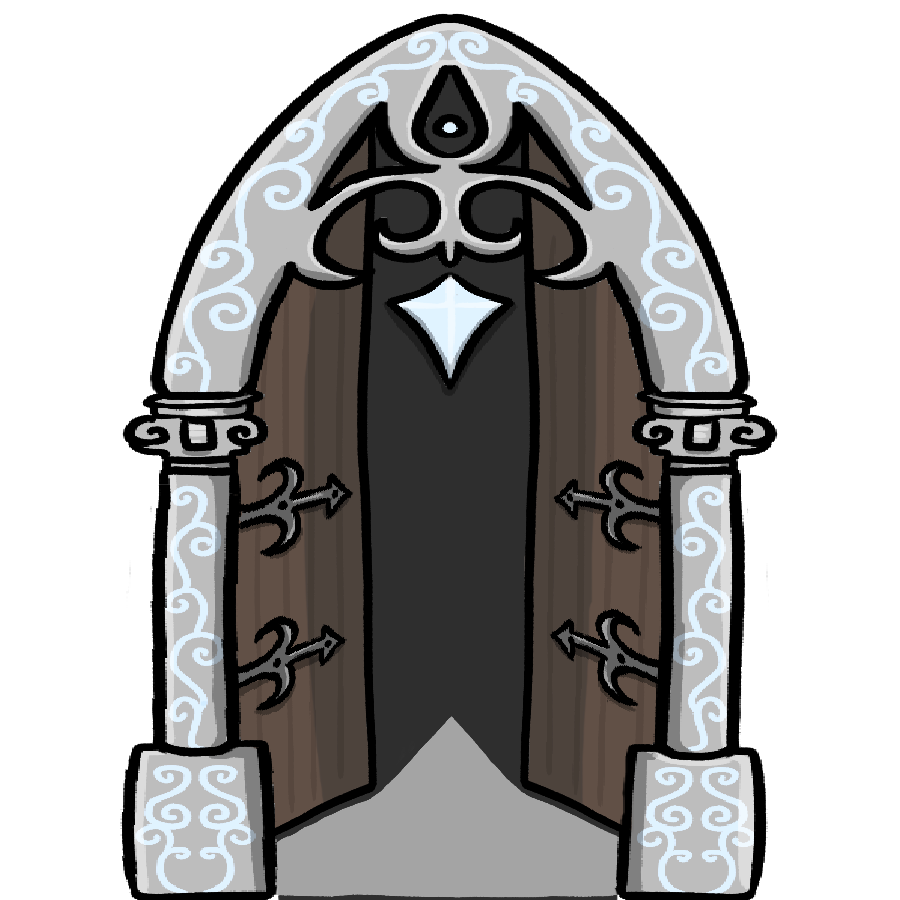
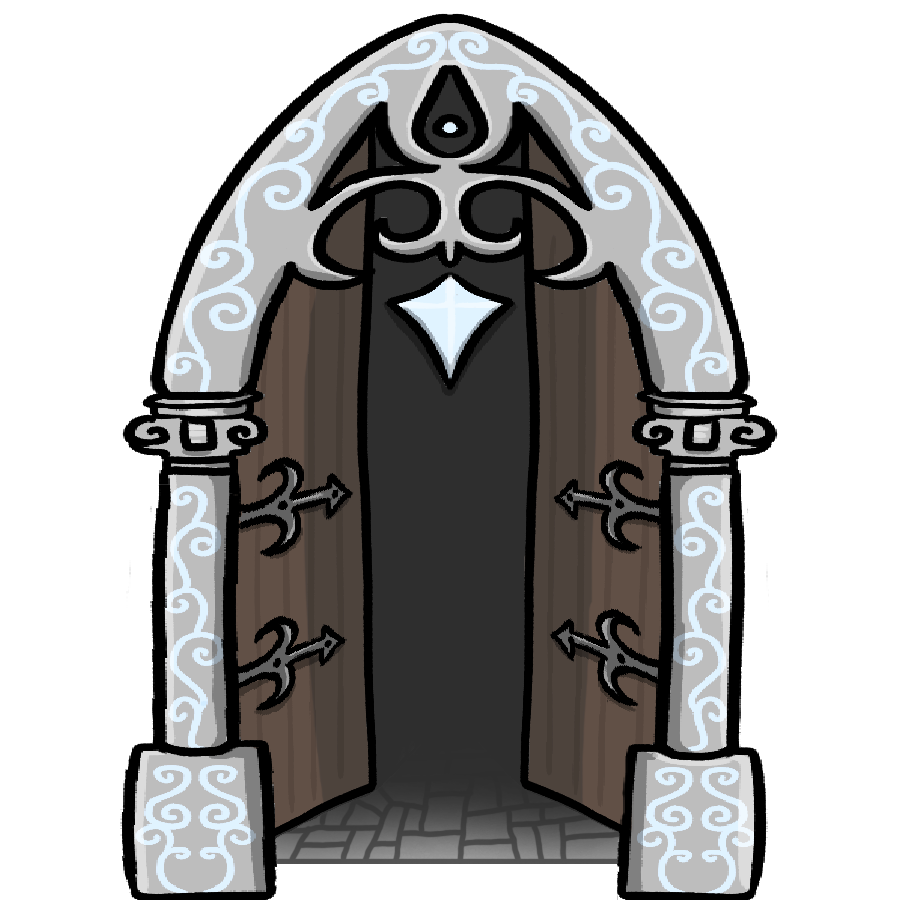
UI fixes

Changed region(s): [[0.28, 0.7778, 0.6844, 1.0]]

diff --git a/Physics/Physics/core/src/main/java/edu/cornell/cis3152/physics/LevelSelectScene.java b/Physics/Physics/core/src/main/java/edu/cornell/cis3152/physics/LevelSelectScene.java
@@ -28,6 +28,7 @@ public class LevelSelectScene implements Screen {
     private Stage stage;
     private Skin skin;
     private Texture bgTexture;
+    Texture selectBgTexture;
 
     private Array<DoorEntry> doorEntries;
 
@@ -48,6 +49,7 @@ public class LevelSelectScene implements Screen {
     private boolean doorDisplayDirty = true;
     private BitmapFont unicaFont;
     private Array<Label> doorLabels = new Array<>();
+    private Array<BackgroundTile> bgTiles = new Array<>();
     private ArrowEntry leftArrowEntry, rightArrowEntry;
     private SoundEngine soundEngine;
 
@@ -71,6 +73,19 @@ public class LevelSelectScene implements Screen {
         }
     }
 
+    private class BackgroundTile {
+        public Image image;
+        public float targetX;
+
+        public BackgroundTile(Image image) {
+            this.image = image;
+            this.targetX = image.getX();
+        }
+    }
+
+
+
+
     private class ArrowEntry extends Entry{
         public int direction;
         public ArrowEntry(Image arrow, TextureRegionDrawable defaultDrawable, TextureRegionDrawable hoverDrawable,int direction) {
@@ -85,10 +100,6 @@ public class LevelSelectScene implements Screen {
         this.soundEngine = soundEngine;
         stage = new Stage(new ScreenViewport());
         skin = new Skin();
-        bgTexture = new Texture(Gdx.files.internal("ui/plain_back.png"));
-        Image bgImage = new Image(bgTexture);
-        bgImage.setSize(Gdx.graphics.getWidth(), Gdx.graphics.getHeight());
-        stage.addActor(bgImage);
         createBasicUI();
     }
     private Texture loadDoorTexture(String statePrefix, boolean hover) {
@@ -97,12 +108,31 @@ public class LevelSelectScene implements Screen {
         return new Texture(Gdx.files.internal(path));
     }
 
+    private String toRoman(int number) {
+        String[] numerals = {
+            "M", "CM", "D", "CD", "C", "XC", "L", "XL", "X", "IX", "V", "IV", "I"
+        };
+        int[] values = {
+            1000, 900, 500, 400, 100, 90, 50, 40, 10, 9, 5, 4, 1
+        };
+
+        StringBuilder result = new StringBuilder();
+        for (int i = 0; i < values.length; i++) {
+            while (number >= values[i]) {
+                number -= values[i];
+                result.append(numerals[i]);
+            }
+        }
+        return result.toString();
+    }
+
+
     private void createBasicUI() {
         float screenWidth = Gdx.graphics.getWidth();
         float screenHeight = Gdx.graphics.getHeight();
-        doorWidth = screenWidth * 0.18f;
-        doorHeight = screenHeight * 0.35f;
-        spacing = screenWidth * 0.001f;
+        doorWidth = screenWidth * 0.18f *0.8f;
+        doorHeight = screenHeight * 0.35f * 0.8f;
+        spacing = screenWidth * 0.00005f;
 
         FreeTypeFontGenerator generator = new FreeTypeFontGenerator(Gdx.files.internal("ui/Unica_One/UnicaOne-Regular.ttf"));
         FreeTypeFontGenerator.FreeTypeFontParameter parameter = new FreeTypeFontGenerator.FreeTypeFontParameter();
@@ -111,6 +141,19 @@ public class LevelSelectScene implements Screen {
 
         unicaFont = generator.generateFont(parameter);
         generator.dispose();
+
+        Texture selectBgTexture = new Texture(Gdx.files.internal("ui/selectBackground.png"));
+
+        float tileWidth = screenWidth / 5f;
+
+        for (int i = 0; i < 5; i++) {
+            Image bgTileImage = new Image(selectBgTexture);
+            bgTileImage.setSize(tileWidth, screenHeight);  // Each tile now covers 1/5 of the width
+            bgTileImage.setPosition(i * tileWidth, 0);
+            stage.addActor(bgTileImage);
+            bgTiles.add(new BackgroundTile(bgTileImage));
+        }
+
 
 
         Texture chamberLabelTexture = new Texture(Gdx.files.internal("ui/chamber_sel.png"));
@@ -142,8 +185,8 @@ public class LevelSelectScene implements Screen {
             Texture baseTex, hoverTex;
 
 //            if ("true".equals(completed)) {
-                baseTex = loadDoorTexture("complete", false);
-                hoverTex = loadDoorTexture("complete", true);
+            baseTex = loadDoorTexture("complete", false);
+            hoverTex = loadDoorTexture("complete", true);
 //            } else if (!foundFirstIncomplete) {
 //                baseTex = loadDoorTexture("incomplete", false);
 //                hoverTex = loadDoorTexture("incomplete", true);
@@ -157,12 +200,12 @@ public class LevelSelectScene implements Screen {
             door.setSize(doorWidth, doorHeight);
 
             Label.LabelStyle labelStyle = new Label.LabelStyle(unicaFont, com.badlogic.gdx.graphics.Color.WHITE);
-            Label label = new Label(String.valueOf(levelNumber), labelStyle);
+            Label label = new Label(toRoman(levelNumber), labelStyle);
             label.setTouchable(Touchable.disabled);
             label.setFontScale(1.0f);
             label.setSize(doorWidth, doorHeight);
             label.setAlignment(com.badlogic.gdx.utils.Align.center);
-            label.setPosition(door.getX(), door.getY());
+            label.setPosition(door.getX(), door.getY()*3.25f);
 
             final int labelIndex = i;
 
@@ -209,7 +252,6 @@ public class LevelSelectScene implements Screen {
         updateDoorDisplay();
     }
 
-    // ... rest of code unchanged ...
 
 
     private void addArrowButtons() {
@@ -221,7 +263,7 @@ public class LevelSelectScene implements Screen {
         Texture l_arrow_hov_text = new Texture(Gdx.files.internal("ui/l_arrow_click.png"));
         Image l_arrow = new Image(l_arrow_text);
         l_arrow.setSize(screenWidth * 0.05f, screenHeight * 0.05f);
-        l_arrow.setPosition(screenWidth * 0.01f, screenHeight * 0.30f);
+        l_arrow.setPosition(screenWidth * 0.01f, screenHeight * 0.8f);
         stage.addActor(l_arrow);
         leftArrowEntry = new ArrowEntry(l_arrow,
             new TextureRegionDrawable(l_arrow_text), new TextureRegionDrawable(l_arrow_hov_text),-1);
@@ -232,7 +274,7 @@ public class LevelSelectScene implements Screen {
         Texture r_arrow_hov_text = new Texture(Gdx.files.internal("ui/r_arrow_click.png"));
         Image r_arrow = new Image(r_arrow_text);
         r_arrow.setSize(screenWidth * 0.05f, screenHeight * 0.05f);
-        r_arrow.setPosition(screenWidth * 0.94f, screenHeight * 0.30f);
+        r_arrow.setPosition(screenWidth * 0.94f, screenHeight * 0.8f);
         stage.addActor(r_arrow);
         rightArrowEntry = new ArrowEntry(r_arrow,new TextureRegionDrawable(r_arrow_text),
             new TextureRegionDrawable(r_arrow_hov_text),1);
@@ -252,6 +294,9 @@ public class LevelSelectScene implements Screen {
                     int maxVisible = Math.min(DOORS_VISIBLE, doorEntries.size - scrollIndex);
                     currentIndex = Math.min(currentIndex, maxVisible - 1);
                     doorDisplayDirty = true;
+                    for (BackgroundTile tile : bgTiles) {
+                        tile.targetX -= Gdx.graphics.getWidth() / 6f;  // Move right by one tile
+                    }
                     //updateDoorDisplay();
 
                     // Title update
@@ -291,6 +336,9 @@ public class LevelSelectScene implements Screen {
                     int maxVisible = Math.min(DOORS_VISIBLE, doorEntries.size - scrollIndex);
                     currentIndex = Math.min(currentIndex, maxVisible - 1);
                     doorDisplayDirty = true;
+                    for (BackgroundTile tile : bgTiles) {
+                        tile.targetX += Gdx.graphics.getWidth() / 6f;  // Move right by one tile
+                    }
 
                     //updateDoorDisplay();
 
@@ -326,20 +374,13 @@ public class LevelSelectScene implements Screen {
         float screenHeight = Gdx.graphics.getHeight();
 
         Texture backButtText = new Texture(Gdx.files.internal("ui/back_butt.png"));
-        Texture settButtText = new Texture(Gdx.files.internal("ui/setting.png"));
-        Image backButt = new Image(backButtText);
+        Texture backButtHoverText = new Texture(Gdx.files.internal("ui/back_butt_hover.png"));
+
+        final Image backButt = new Image(backButtText);
         backButt.setSize(screenWidth * 0.075f, screenHeight * 0.075f);
         backButt.setPosition(screenWidth * 0.01f, screenHeight * 0.9f);
         stage.addActor(backButt);
 
-        Image settButt = new Image(settButtText);
-        settButt.setSize(screenWidth * 0.075f, screenHeight * 0.075f);
-        settButt.setPosition(screenWidth * 0.915f, screenHeight * 0.9f);
-        stage.addActor(settButt);
-
-        // Create drawables for hover effects
-
-        // Left arrow listener
         backButt.addListener(new com.badlogic.gdx.scenes.scene2d.InputListener() {
             @Override
             public boolean touchDown(InputEvent event, float x, float y, int pointer, int button) {
@@ -348,33 +389,72 @@ public class LevelSelectScene implements Screen {
                 }
                 return true;
             }
-        });
-    }
 
+            @Override
+            public void enter(InputEvent event, float x, float y, int pointer, com.badlogic.gdx.scenes.scene2d.Actor fromActor) {
+                ((Image) event.getListenerActor()).setDrawable(new TextureRegionDrawable(new TextureRegion(backButtHoverText)));
+            }
+
+            @Override
+            public void exit(InputEvent event, float x, float y, int pointer, com.badlogic.gdx.scenes.scene2d.Actor toActor) {
+                ((Image) event.getListenerActor()).setDrawable(new TextureRegionDrawable(new TextureRegion(backButtText)));
+            }
+        });
+
+        // Leave settings button unchanged
+        Texture settButtText = new Texture(Gdx.files.internal("ui/setting.png"));
+        Image settButt = new Image(settButtText);
+        settButt.setSize(screenWidth * 0.075f, screenHeight * 0.075f);
+        settButt.setPosition(screenWidth * 0.915f, screenHeight * 0.9f);
+        stage.addActor(settButt);
+    }
 
     private void updateDoorDisplay() {
         float screenWidth = Gdx.graphics.getWidth();
-        float yPos = Gdx.graphics.getHeight() * 0.185f;
+        float yPos = Gdx.graphics.getHeight() * 0.274f;
 
         int doorsToShow = Math.min(DOORS_VISIBLE, doorEntries.size - scrollIndex);
-        float totalWidth = doorsToShow * doorWidth + (doorsToShow - 1) * spacing;
-        float startX = (screenWidth - totalWidth) / 2f;
+        float tileWidth = screenWidth / 5f;  // Each background tile width
+
+        float effectiveDoorWidth = doorWidth * 0.9f;
 
         for (int i = 0; i < doorEntries.size; i++) {
             DoorEntry entry = doorEntries.get(i);
 
             if (i >= scrollIndex && i < scrollIndex + doorsToShow) {
                 int visibleIndex = i - scrollIndex;
-                entry.targetX = startX + visibleIndex * (doorWidth + spacing);
+
+                // Center door in its corresponding tile
+                float centerX = (visibleIndex + 0.505f) * tileWidth;
+                entry.targetX = centerX - effectiveDoorWidth / 2f;
+
                 entry.image.setY(yPos);
                 entry.image.setVisible(true);
+                entry.image.setWidth(effectiveDoorWidth);
             } else {
                 entry.targetX = 0;
                 entry.image.setVisible(false);
             }
         }
-    }
+        float scrollOffset = (scrollIndex % bgTiles.size) * tileWidth;
 
+
+// Calculate the offset based on scrollIndex
+
+        //for (int i = 0; i < bgTiles.size; i++) {
+        //    BackgroundTile tile = bgTiles.get(i);
+        //    float targetX = i * tileWidth - scrollOffset;
+
+            // Wrap-around logic to keep tiles within screen bounds
+          //  if (targetX + tileWidth < 0) {
+            //    targetX += bgTiles.size * tileWidth;
+           // } else if (targetX > screenWidth) {
+             //   targetX -= bgTiles.size * tileWidth;
+           // }
+
+          //  tile.targetX = targetX;
+    //}
+    }
     private void updateDoorAnimation(float delta) {
         float lerpSpeed = 10f;
         for (int i = 0; i < doorEntries.size; i++) {
@@ -389,14 +469,26 @@ public class LevelSelectScene implements Screen {
 
             if (i < doorLabels.size) {
                 Label label = doorLabels.get(i);
+
+                // Calculate horizontal position to center label over the door
                 float labelX = newX + doorWidth / 2f - label.getPrefWidth() / 2f;
                 float labelY = entry.image.getY() + doorHeight / 2f - label.getPrefHeight() / 2f;
-                label.setPosition(newX, entry.image.getY());
+                label.setPosition(newX - doorWidth*0.05f, entry.image.getY() * 1.64f);
                 label.setSize(doorWidth, doorHeight);  // ensure it resizes with the door
                 label.setVisible(entry.image.isVisible());
             }
         }
+      //  float bgLerpSpeed = 10f;  // Controls animation speed (increase for faster scroll)
+
+       // for (BackgroundTile tile : bgTiles) {
+       //     float currentX = tile.image.getX();
+       //     float newX = currentX + (tile.targetX - currentX) * bgLerpSpeed * delta;
+       //     tile.image.setX(newX);
+      //  }
+
     }
+
+
 
     private Entry controllerButtons(){
         Entry entry;
@@ -405,7 +497,7 @@ public class LevelSelectScene implements Screen {
         }else if (currentIndex%MAX_BUTTONS==(MAX_BUTTONS-1)){
             entry = rightArrowEntry;
         }else{
-            entry = doorEntries.get(5*chapterNumber+currentIndex-1);
+            entry = doorEntries.get(6*chapterNumber+currentIndex-1);
         }
         return entry;
     }
@@ -473,9 +565,6 @@ public class LevelSelectScene implements Screen {
         stage.act(delta);
         updateDoorAnimation(delta);
         stage.draw();
-        if (inputController.isUsingController()) {
-            if(inputController.xbox.getB()){listener.exitScreen(LevelSelectScene.this, 0);}
-        }
 
     }
 
